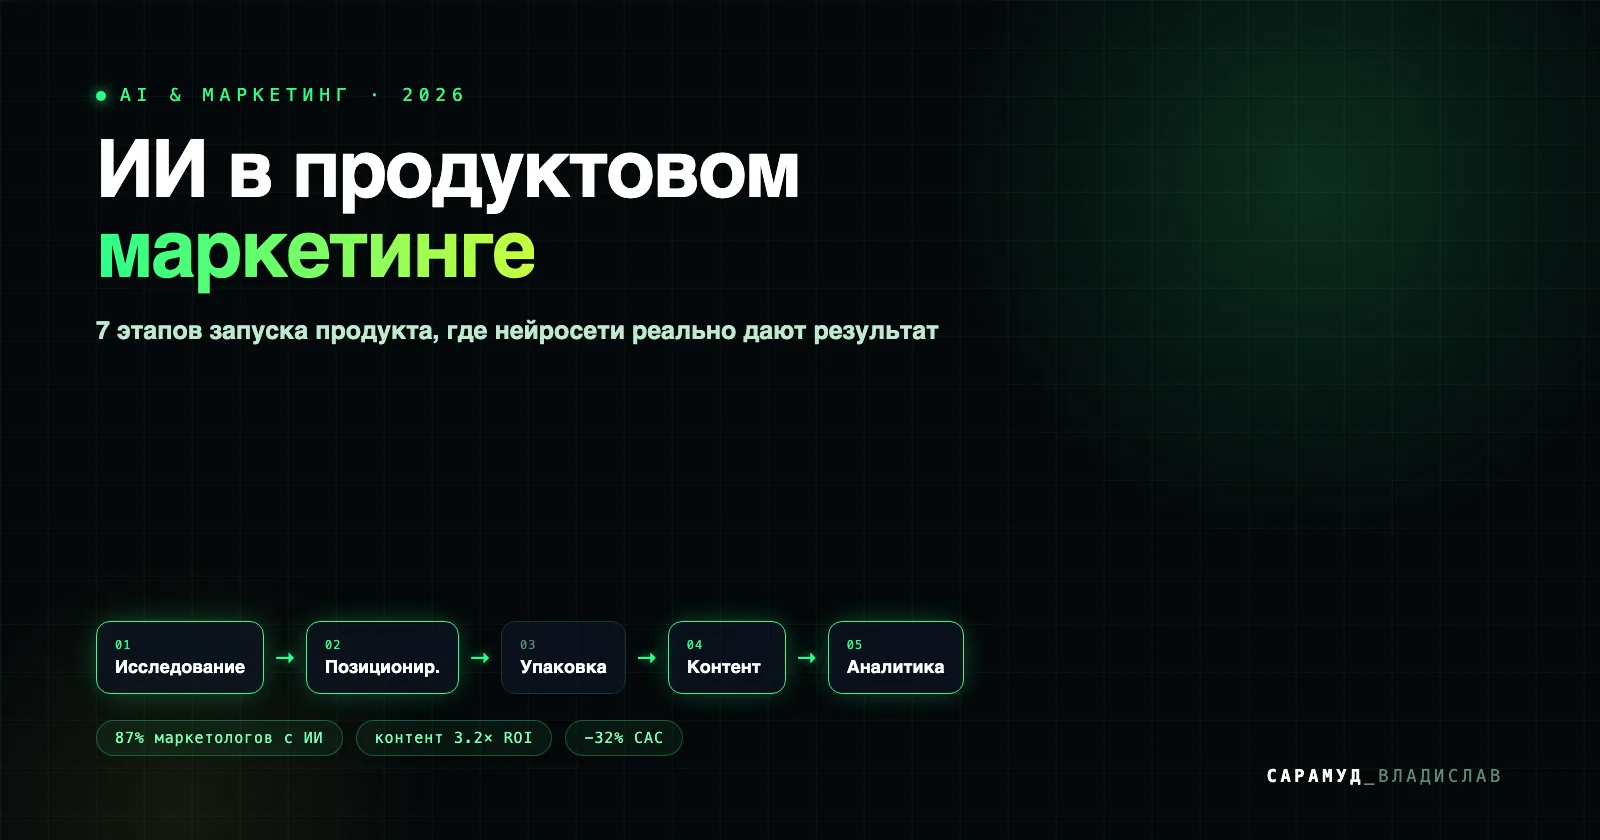
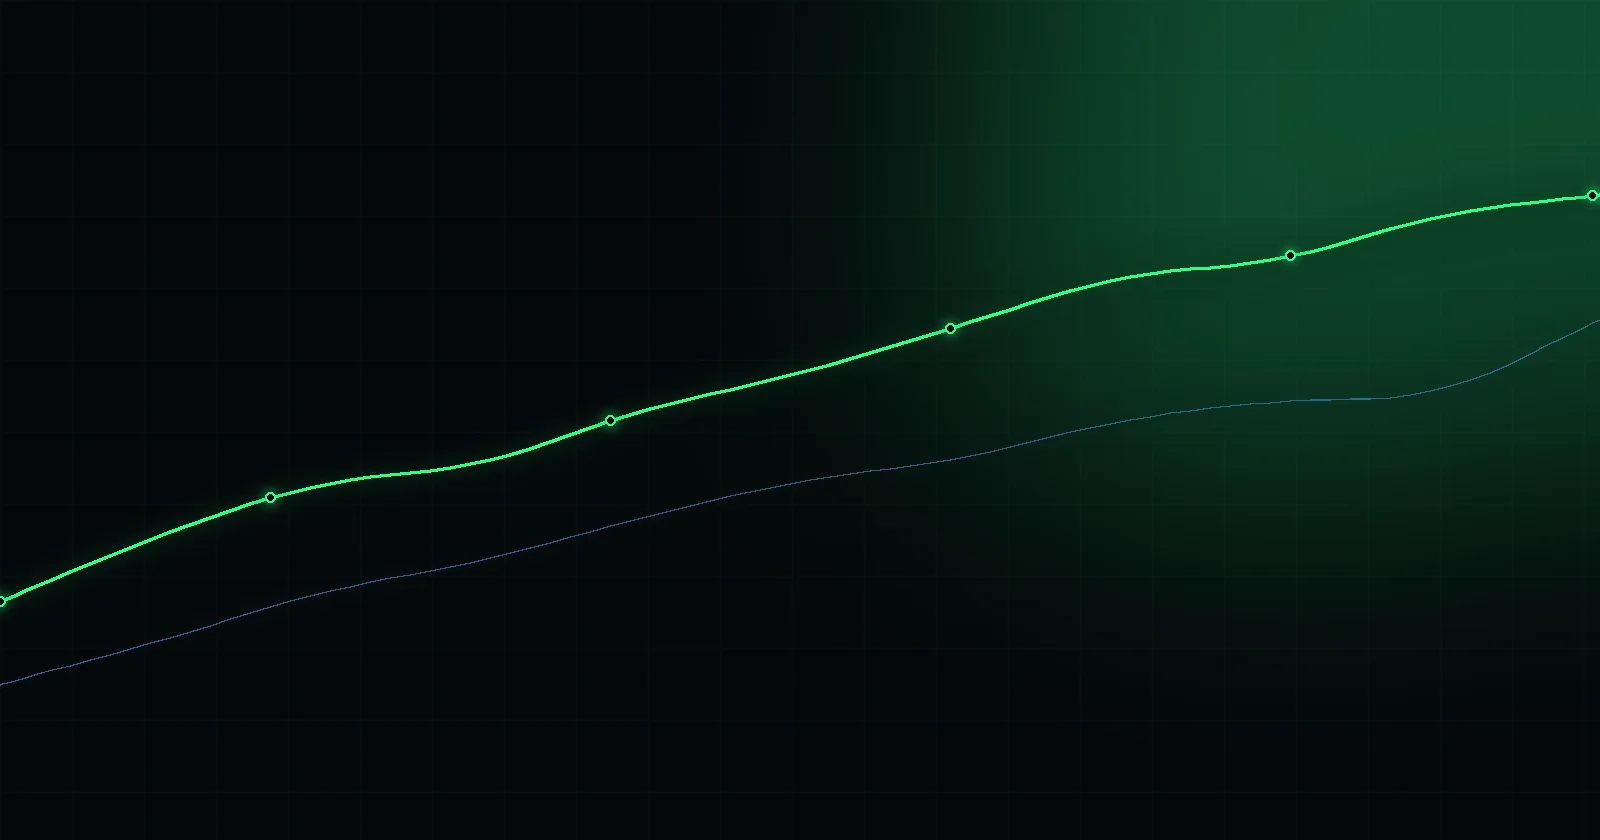
fix(cards): чистые фирменные hero-картинки без текста — обрезка в карточках больше не рубит текст
- картинки с вшитым текстом (ii-v-produktovom, нейросети-для-видео) при
  object-fit:cover в карточках «Свежее в блоге» обрезались по тексту
- сгенерированы абстрактные неон-картинки (график роста, 1600×840, без текста):
  кейс B2C (замена временной), motion-as-code (своя картинка вместо shared
  нейросети-для-видео), ИИ в продуктовом маркетинге
- PIL-генератор, фирменные цвета #2bff88 на #04070a

diff --git a/articles/moushn-grafika-kodom-2026/index.html b/articles/moushn-grafika-kodom-2026/index.html
@@ -14,7 +14,7 @@
     <meta property="og:url" content="https://saramudvlad.ru/articles/moushn-grafika-kodom-2026/">
     <meta property="og:title" content="Моушн-графика кодом (motion as code): как делают залетающие AI-ролики">
     <meta property="og:description" content="Почему эти анимационные ролики залетают и как собрать свой через нейросети — без моушн-дизайнера. Разбор техники motion as code.">
-    <meta property="og:image" content="https://saramudvlad.ru/images/neyroseti-dlya-video.webp">
+    <meta property="og:image" content="https://saramudvlad.ru/images/moushn-grafika-kodom-2026.webp">
     <meta property="article:published_time" content="2026-10-26T10:00:00+03:00">
     <meta property="article:author" content="Владислав Сарамуд">
     <meta property="article:section" content="AI & Контент">
@@ -23,7 +23,7 @@
     <meta name="twitter:card" content="summary_large_image">
     <meta name="twitter:title" content="Моушн-графика кодом: как делают залетающие AI-ролики">
     <meta name="twitter:description" content="Разбор техники motion as code и как собрать свой ролик через нейросети без моушн-дизайнера.">
-    <meta name="twitter:image" content="https://saramudvlad.ru/images/neyroseti-dlya-video.webp">
+    <meta name="twitter:image" content="https://saramudvlad.ru/images/moushn-grafika-kodom-2026.webp">
 
     <script type="text/javascript">
     (function(m,e,t,r,i,k,a){m[i]=m[i]||function(){(m[i].a=m[i].a||[]).push(arguments)};m[i].l=1*new Date();for(var j=0;j<document.scripts.length;j++){if(document.scripts[j].src===r){return;}}k=e.createElement(t),a=e.getElementsByTagName(t)[0],k.async=1,k.src=r,a.parentNode.insertBefore(k,a)})(window,document,'script','https://mc.yandex.ru/metrika/tag.js?id=106768627','ym');
@@ -39,7 +39,7 @@
     <link href="https://fonts.googleapis.com/css2?family=Inter+Tight:wght@500;600;700;800;900&family=Inter:wght@400;500;600;700;800&family=JetBrains+Mono:wght@400;500;700&display=swap" rel="stylesheet">
     <link href="https://cdnjs.cloudflare.com/ajax/libs/font-awesome/6.4.0/css/all.min.css" rel="stylesheet" integrity="sha384-iw3OoTErCYJJB9mCa8LNS2hbsQ7M3C0EpIsO/H5+EGAkPGc6rk+V8i04oW/K5xq0" crossorigin="anonymous">
 
-    <script type="application/ld+json">{"@context":"https://schema.org","@type":"Article","headline":"Моушн-графика кодом (motion as code): как делают залетающие AI-ролики 2026","description":"Разбор техники motion as code: как делают вирусные анимационные ролики-эксплейнеры и как собрать свой через нейросети без моушн-дизайнера.","image":"https://saramudvlad.ru/images/neyroseti-dlya-video.webp","author":{"@type":"Person","name":"Владислав Сарамуд","url":"https://saramudvlad.ru"},"publisher":{"@type":"Person","name":"Владислав Сарамуд","logo":{"@type":"ImageObject","url":"https://saramudvlad.ru/avatar.webp"}},"datePublished":"2026-10-26","dateModified":"2026-10-26","mainEntityOfPage":{"@type":"WebPage","@id":"https://saramudvlad.ru/articles/moushn-grafika-kodom-2026/"}}</script>
+    <script type="application/ld+json">{"@context":"https://schema.org","@type":"Article","headline":"Моушн-графика кодом (motion as code): как делают залетающие AI-ролики 2026","description":"Разбор техники motion as code: как делают вирусные анимационные ролики-эксплейнеры и как собрать свой через нейросети без моушн-дизайнера.","image":"https://saramudvlad.ru/images/moushn-grafika-kodom-2026.webp","author":{"@type":"Person","name":"Владислав Сарамуд","url":"https://saramudvlad.ru"},"publisher":{"@type":"Person","name":"Владислав Сарамуд","logo":{"@type":"ImageObject","url":"https://saramudvlad.ru/avatar.webp"}},"datePublished":"2026-10-26","dateModified":"2026-10-26","mainEntityOfPage":{"@type":"WebPage","@id":"https://saramudvlad.ru/articles/moushn-grafika-kodom-2026/"}}</script>
 
     <script type="application/ld+json">{"@context":"https://schema.org","@type":"BreadcrumbList","itemListElement":[{"@type":"ListItem","position":1,"name":"Главная","item":"https://saramudvlad.ru"},{"@type":"ListItem","position":2,"name":"Статьи","item":"https://saramudvlad.ru/blog/"},{"@type":"ListItem","position":3,"name":"Моушн-графика кодом 2026"}]}</script>
 
@@ -174,7 +174,7 @@
     <!-- HERO IMAGE -->
     <div class="mb-10">
         <img
-            src="/images/neyroseti-dlya-video.webp"
+            src="/images/moushn-grafika-kodom-2026.webp"
             alt="Моушн-графика кодом: анимационный ролик-эксплейнер с неон-акцентом и караоке-титрами"
             class="hero-image"
             width="800"
